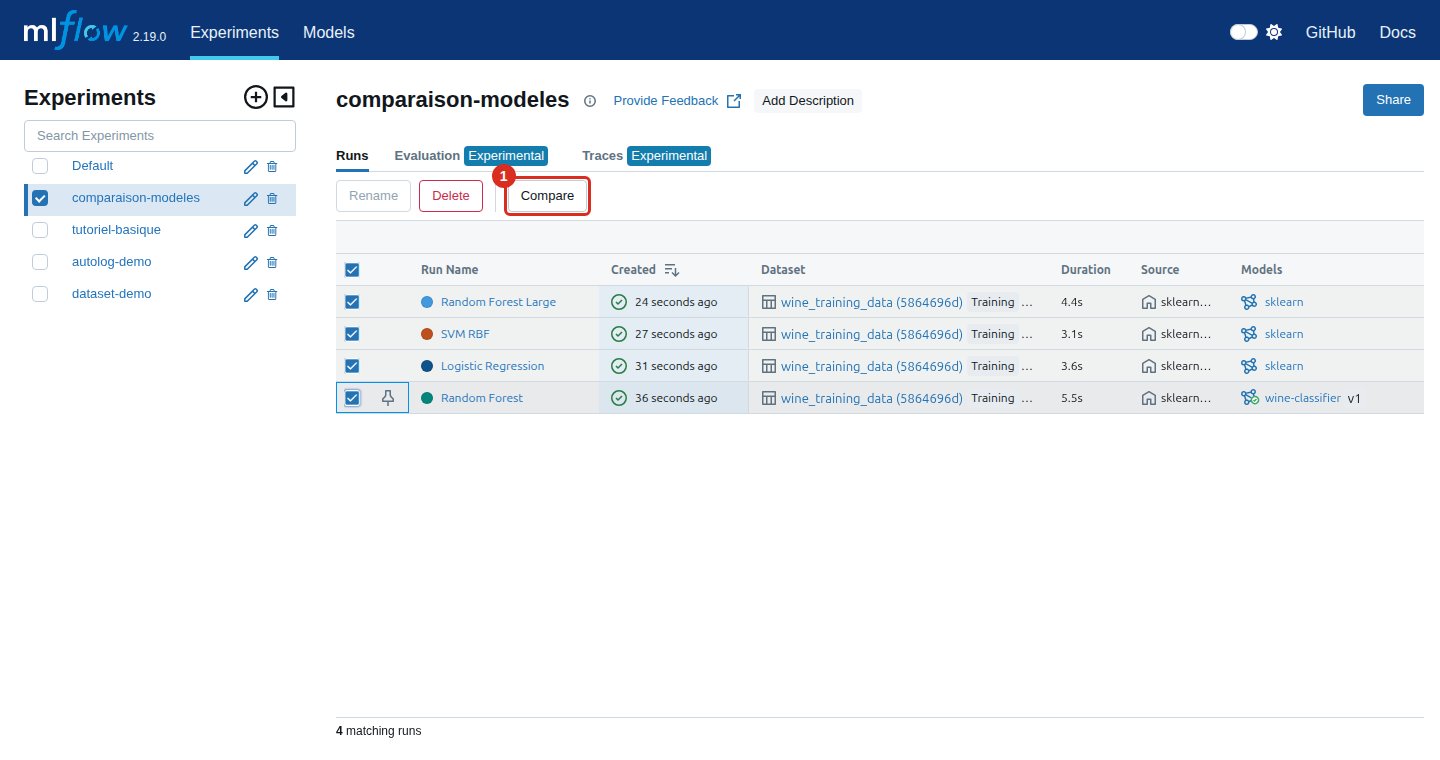
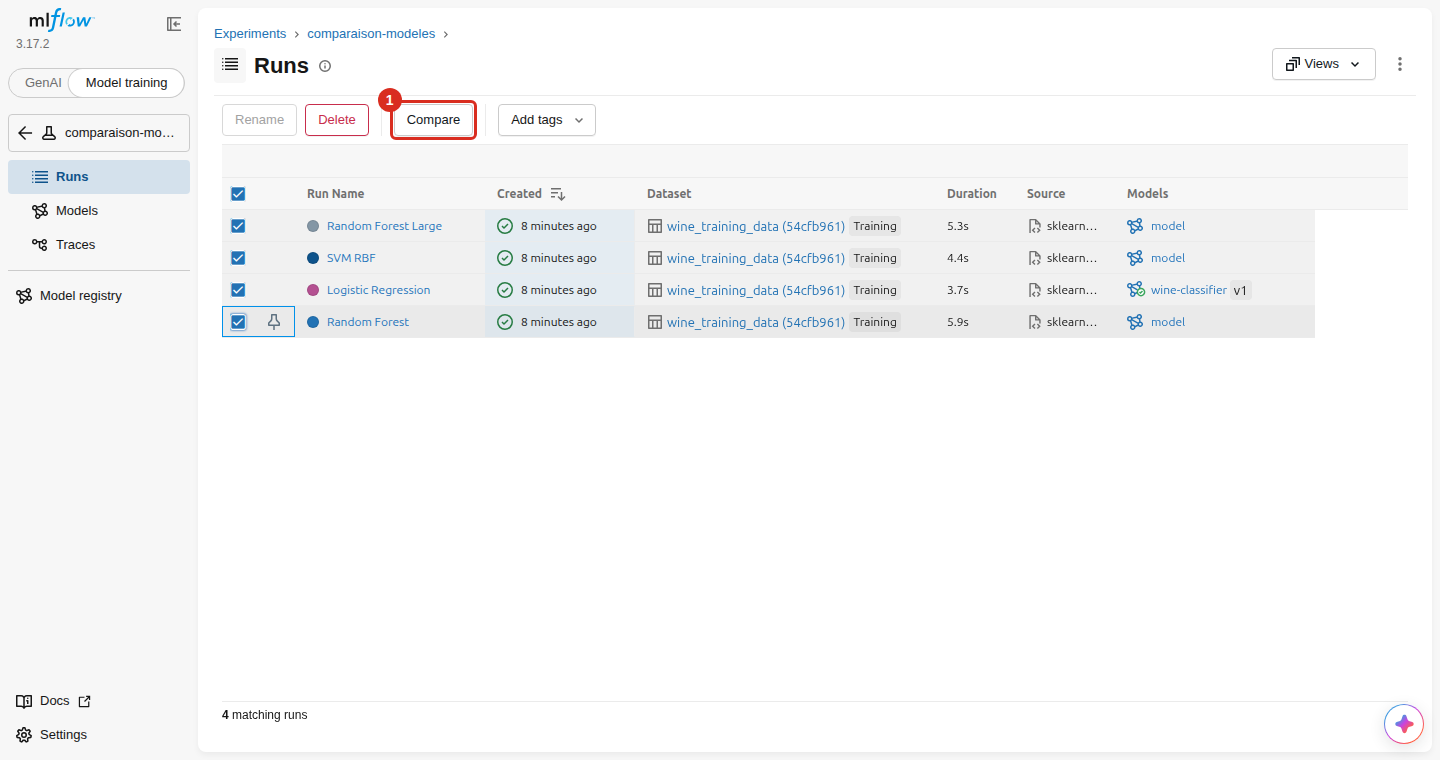
feat(examples): tracing et evaluation GenAI avec un modele local, captures MLflow 3
- genai_example.py : trace, scorer Python et juges LLM sur Ollama, sans cle payante
- filelock corrige dans le lock, LiteLLM redescend a 1.103.10 pour cela
- telemetrie d'usage de MLflow desactivee
- 23 captures refaites sur MLflow 3.17.2 et SeaweedFS 4.51

diff --git a/scripts/capture_screenshots.py b/scripts/capture_screenshots.py
@@ -33,10 +33,20 @@ FILER = "http://127.0.0.1:8888"
 MASTER = "http://127.0.0.1:9333"
 IMAGES = Path(__file__).resolve().parent.parent / "documentation" / "images"
 EXEMPLES = {
+    "comparaison-modeles": "sklearn_example.py",
     "tutoriel-basique": "basic_example.py",
     "autolog-demo": "autolog_example.py",
     "dataset-demo": "dataset_example.py",
+    "evaluation-modeles": "evaluation_example.py",
 }
+
+# Interface en mode "Model training", sans le panneau de l'assistant qui s'ouvre
+# à la première visite ; genai_example.py a besoin d'Ollama et se lance à part
+PREFERENCES = """() => {
+    localStorage.setItem('mlflow.workflowType_v1', '"machine_learning"');
+    localStorage.setItem('mlflow.assistant.fab.autoOpenedOnFirstLoad_v1', 'true');
+    localStorage.setItem('mlflow.assistant.panelOpen_v1', 'false');
+}"""
 
 # Dessine un cadre et une pastille numérotée autour de chaque élément ciblé
 ANNOTER = """([x, y, w, h, n]) => {
@@ -69,15 +79,7 @@ def runs(experiment_id):
 
 
 def preparer_donnees():
-    """Attend le premier entraînement du runner et lance les exemples manquants."""
-    for _ in range(60):
-        try:
-            api("registered-models/alias?name=wine-classifier&alias=champion")
-            break
-        except OSError:
-            time.sleep(5)
-    else:
-        raise SystemExit("Pas de modèle @champion : la stack tourne-t-elle ?")
+    """Lance les exemples dont l'expérience n'existe pas encore."""
     for nom, script in EXEMPLES.items():
         if nom not in experiences():
             subprocess.run(["docker", "compose", "exec", "-T", "runner", "python", script], check=True)
@@ -100,7 +102,7 @@ def capturer(page, url, nom, cibles=(), attente=3500, avant=None):
 
 
 def fermer_promotion(page):
-    """Ferme la fenêtre promotionnelle du registre, affichée à la première visite."""
+    """Ferme les fenêtres de découverte affichées à la première visite d'une page."""
     page.keyboard.press("Escape")
     page.wait_for_timeout(500)
 
@@ -110,18 +112,24 @@ def main():
     IMAGES.mkdir(parents=True, exist_ok=True)
     ids = experiences()
     comparaison = ids["comparaison-modeles"]
+    evaluation = ids["evaluation-modeles"]
     champion = api("registered-models/alias?name=wine-classifier&alias=champion")["model_version"]
+    modele_champion = champion["source"].split("/")[-1]
     tous = [r["info"]["run_id"] for r in runs(comparaison)]
     run_basique = runs(ids["tutoriel-basique"])[0]["info"]["run_id"]
     run_autolog = runs(ids["autolog-demo"])[0]["info"]["run_id"]
     run_dataset = runs(ids["dataset-demo"])[0]["info"]["run_id"]
+    run_candidat = next(r["info"]["run_id"] for r in runs(evaluation) if r["info"]["run_name"] == "candidat")
     url_run = f"{MLFLOW}/#/experiments/{comparaison}/runs/{champion['run_id']}"
+    url_stockage = f"{FILER}/buckets/mlflow-artifacts/{comparaison}"
 
     with sync_playwright() as p:
         navigateur = p.chromium.launch()
         page = navigateur.new_page(viewport={"width": 1440, "height": 760})
+        page.goto(MLFLOW)
+        page.evaluate(PREFERENCES)
 
-        capturer(page, f"{MLFLOW}/#/experiments/{comparaison}", "01-table-des-runs", [
+        capturer(page, f"{MLFLOW}/#/experiments/{comparaison}/runs", "01-table-des-runs", [
             lambda pg: pg.get_by_role("link", name="comparaison-modeles").first,
             lambda pg: pg.get_by_role("link", name="Random Forest Large"),
             lambda pg: pg.get_by_text("wine_training_data").first,
@@ -135,26 +143,26 @@ def main():
                     lignes.nth(i).check(force=True)
             pg.wait_for_timeout(500)
 
-        capturer(page, f"{MLFLOW}/#/experiments/{comparaison}", "02-selection-pour-comparer", [
+        capturer(page, f"{MLFLOW}/#/experiments/{comparaison}/runs", "02-selection-pour-comparer", [
             lambda pg: pg.get_by_role("button", name="Compare"),
         ], avant=selectionner)
 
-        page.set_viewport_size({"width": 1440, "height": 1050})
+        page.set_viewport_size({"width": 1440, "height": 1700})
         capturer(page, url_run, "03-run-overview", [
-            lambda pg: pg.get_by_text("Datasets used"),
-            lambda pg: pg.get_by_text("Tags", exact=True),
-            lambda pg: pg.get_by_text("Logged models"),
-            lambda pg: pg.get_by_text("Registered models"),
-            lambda pg: pg.get_by_role("heading", name="Parameters"),
+            lambda pg: pg.get_by_role("heading", name="Datasets"),
+            lambda pg: pg.get_by_role("heading", name="Tags"),
+            lambda pg: pg.get_by_role("heading", name="Registered models"),
             lambda pg: pg.get_by_role("heading", name="Metrics"),
+            lambda pg: pg.get_by_role("heading", name="Parameters"),
+            lambda pg: pg.get_by_role("heading", name="Logged models"),
         ])
         capturer(page, f"{MLFLOW}/#/experiments/{ids['autolog-demo']}/runs/{run_autolog}", "04-run-autolog", [
-            lambda pg: pg.get_by_role("heading", name="Parameters"),
             lambda pg: pg.get_by_role("heading", name="Metrics"),
+            lambda pg: pg.get_by_role("heading", name="Parameters"),
         ])
         page.set_viewport_size({"width": 1440, "height": 760})
         capturer(page, f"{MLFLOW}/#/experiments/{ids['dataset-demo']}/runs/{run_dataset}", "05-run-datasets", [
-            lambda pg: pg.get_by_text("Datasets used"),
+            lambda pg: pg.get_by_role("heading", name="Datasets"),
         ])
         capturer(page, f"{MLFLOW}/#/experiments/{ids['tutoriel-basique']}/runs/{run_basique}/model-metrics",
                  "06-courbe-de-metrique", [lambda pg: pg.get_by_text("loss", exact=True).first])
@@ -163,38 +171,108 @@ def main():
             lambda pg: pg.get_by_text("s3://mlflow-artifacts"),
         ])
 
+        def axes_parlants(pg):
+            """Remplace les axes par défaut par le modèle et ses scores."""
+            pg.get_by_role("button", name="Clear All").click()
+            for selecteur, valeurs in [(0, ["model_type"]), (1, ["cv_mean", "test_accuracy"])]:
+                champ = pg.locator(".ant-select-selection-search-input, .du-bois-light-select-selection-search-input").nth(selecteur)
+                for valeur in valeurs:
+                    champ.click(force=True)
+                    champ.fill(valeur)
+                    pg.wait_for_timeout(300)
+                    champ.press("Enter")
+                    pg.wait_for_timeout(500)
+                pg.keyboard.press("Escape")
+            pg.mouse.click(1000, 650)
+            pg.wait_for_timeout(1500)
+
         ids_json = urllib.parse.quote(json.dumps(tous))
         page.set_viewport_size({"width": 1440, "height": 1000})
         capturer(page, f'{MLFLOW}/#/compare-runs?runs={ids_json}&experiments=["{comparaison}"]', "08-comparaison", [
             lambda pg: pg.get_by_text("Parallel Coordinates Plot"),
-        ], attente=5000)
+        ], attente=5000, avant=axes_parlants)
         page.set_viewport_size({"width": 1440, "height": 760})
         capturer(page, f"{MLFLOW}/#/models", "09-registre-des-modeles", [
             lambda pg: pg.get_by_role("link", name="wine-classifier"),
             lambda pg: pg.get_by_text("champion").first,
         ], avant=fermer_promotion)
         capturer(page, f"{MLFLOW}/#/models/wine-classifier/versions/{champion['version']}", "10-version-du-modele", [
-            lambda pg: pg.get_by_role("link", name="Random Forest"),
+            lambda pg: pg.get_by_text("Source Run"),
+            lambda pg: pg.get_by_text("Source Model"),
             lambda pg: pg.get_by_text("champion").first,
         ], avant=fermer_promotion)
-        capturer(page, f"{FILER}/buckets/mlflow-artifacts/{comparaison}/{champion['run_id']}/artifacts/",
+        capturer(page, f"{url_stockage}/{champion['run_id']}/artifacts/",
                  "11-stockage-seaweedfs", [lambda pg: pg.get_by_role("link", name="confusion_matrix.png").first])
         capturer(page, f"{FILER}/buckets/mlflow-artifacts/", "12-seaweedfs-bucket", [
             lambda pg: pg.get_by_role("link", name="mlflow-artifacts"),
             lambda pg: pg.get_by_role("link", name=comparaison, exact=True).last,
         ], attente=1500)
-        capturer(page, f"{FILER}/buckets/mlflow-artifacts/{comparaison}/", "13-seaweedfs-runs", [
+        capturer(page, f"{url_stockage}/", "13-seaweedfs-runs", [
+            lambda pg: pg.get_by_role("link", name="models", exact=True),
             lambda pg: pg.get_by_role("link", name=champion["run_id"]),
         ], attente=1500)
-        capturer(page, f"{FILER}/buckets/mlflow-artifacts/{comparaison}/{champion['run_id']}/artifacts/model/",
-                 "14-seaweedfs-modele", [
+        capturer(page, f"{url_stockage}/models/{modele_champion}/artifacts/", "14-seaweedfs-modele", [
             lambda pg: pg.get_by_role("link", name="MLmodel"),
-            lambda pg: pg.get_by_role("link", name="model.pkl"),
+            lambda pg: pg.get_by_role("link", name="model.skops"),
         ], attente=1500)
         capturer(page, MASTER, "15-seaweedfs-cluster", [
             lambda pg: pg.get_by_text("Cluster status"),
             lambda pg: pg.get_by_role("heading", name="Topology"),
         ], attente=1500)
+
+        page.set_viewport_size({"width": 2100, "height": 500})
+        capturer(page, f"{MLFLOW}/#/experiments/{evaluation}/models", "16-logged-models", [
+            lambda pg: pg.get_by_role("link", name="candidat").first,
+            lambda pg: pg.get_by_text("accuracy_score").first,
+        ])
+        modele_candidat = page.get_by_role("link", name="candidat").first.get_attribute("href").rstrip("/").split("/")[-1]
+        page.set_viewport_size({"width": 1440, "height": 1100})
+        capturer(page, f"{MLFLOW}/#/experiments/{evaluation}/models/{modele_candidat}", "17-logged-model", [
+            lambda pg: pg.get_by_role("heading", name="Metrics"),
+            lambda pg: pg.get_by_text("wine_test").first,
+        ])
+        page.set_viewport_size({"width": 1440, "height": 760})
+        capturer(page, f"{MLFLOW}/#/experiments/{evaluation}/runs/{run_candidat}/artifacts/confusion_matrix.png",
+                 "18-graphiques-evaluation", [lambda pg: pg.get_by_text("confusion_matrix.png").first])
+        capturer(page, f"{MLFLOW}/#/experiments/{evaluation}/runs/{run_candidat}/system-metrics",
+                 "19-metriques-systeme", [lambda pg: pg.get_by_text("cpu_utilization_percentage").first])
+
+        if "genai-assistant" in ids:
+            genai = ids["genai-assistant"]
+            page.get_by_text("GenAI", exact=True).click()
+
+            def fermer_decouverte(pg):
+                pg.get_by_role("button", name="Got it").click()
+                pg.wait_for_timeout(500)
+
+            capturer(page, f"{MLFLOW}/#/experiments/{genai}/traces", "20-traces", [
+                lambda pg: pg.get_by_text("Combien", exact=False).first,
+                lambda pg: pg.get_by_text("Output", exact=True).first,
+            ], avant=fermer_decouverte)
+
+            def ouvrir_trace(pg):
+                pg.get_by_text("Combien", exact=False).first.click()
+                pg.wait_for_timeout(2500)
+
+            capturer(page, f"{MLFLOW}/#/experiments/{genai}/traces", "21-detail-trace", [
+                lambda pg: pg.get_by_text("chercher_fiche").first,
+                lambda pg: pg.get_by_text("Completions").first,
+            ], avant=ouvrir_trace)
+            capturer(page, f"{MLFLOW}/#/experiments/{genai}/evaluation-runs", "22-evaluation-genai", [
+                lambda pg: pg.get_by_text("contient_mot_cle", exact=False).first,
+            ])
+
+            def ouvrir_evaluation(pg):
+                pg.locator("a", has_text="-").filter(has_not_text="genai").last.click()
+                pg.wait_for_timeout(3000)
+
+            page.set_viewport_size({"width": 2300, "height": 620})
+            capturer(page, f"{MLFLOW}/#/experiments/{genai}/evaluation-runs", "23-detail-evaluation", [
+                lambda pg: pg.get_by_text("Response", exact=True).first,
+                lambda pg: pg.get_by_text("correctness").last,
+            ], avant=ouvrir_evaluation)
+        else:
+            print("genai-assistant absente : captures 20 à 23 ignorées (lancer genai_example.py)")
         navigateur.close()
 
 

diff --git a/examples/genai_example.py b/examples/genai_example.py
@@ -1,0 +1,130 @@
+"""
+genai_example.py - Tracing et évaluation d'un assistant LLM
+===========================================================
+
+Un petit assistant répond à des questions sur le dataset Wine à partir de
+fiches, avec un modèle local servi par Ollama (aucune clé payante) :
+- mlflow.openai.autolog() et @mlflow.trace : chaque réponse devient une trace
+- mlflow.genai.evaluate() : note les réponses sur un jeu de questions
+- @scorer : un critère écrit en Python, sans LLM
+- Correctness et Guidelines : des critères notés par un LLM, le "juge"
+
+Prérequis:
+---------
+Un serveur Ollama joignable depuis le conteneur runner, avec le modèle
+OLLAMA_MODEL installé (voir la section GenAI du tutoriel).
+
+Exécution:
+---------
+docker compose exec -e OLLAMA_BASE_URL=http://ollama-central:11434/v1 runner python genai_example.py
+
+Interface MLflow:
+----------------
+Expérience "genai-assistant" sur http://localhost:5000, onglets "Traces" et "Evaluation runs"
+"""
+
+import os
+
+import mlflow
+from mlflow.entities import Feedback, SpanType
+from mlflow.genai.scorers import Correctness, Guidelines, scorer
+from openai import OpenAI
+
+from sklearn_example import configurer_mlflow
+
+MODELE = os.getenv("OLLAMA_MODEL", "gemma4:e4b")
+
+# Le juge passe par LiteLLM, qui lit OPENAI_API_BASE ; le client OpenAI lit
+# OPENAI_BASE_URL. Ollama expose une API compatible et ignore la clé.
+URL_OLLAMA = os.getenv("OLLAMA_BASE_URL", "http://localhost:11434/v1")
+os.environ["OPENAI_BASE_URL"] = URL_OLLAMA
+os.environ["OPENAI_API_BASE"] = URL_OLLAMA
+os.environ["OPENAI_API_KEY"] = "ollama"
+JUGE = f"openai:/{MODELE}"
+
+FICHES = {
+    "classes": "Le dataset Wine contient 3 classes de vins : class_0, class_1 et class_2.",
+    "caractéristiques": "Chaque vin est décrit par 13 caractéristiques chimiques, dont l'alcool et le magnésium.",
+    "échantillons": "Le dataset Wine contient 178 échantillons.",
+}
+
+QUESTIONS = [
+    {
+        "inputs": {"question": "Combien de classes contient le dataset Wine ?"},
+        "expectations": {"expected_facts": ["Le dataset contient 3 classes"], "mot_cle": "3"},
+    },
+    {
+        "inputs": {"question": "Combien de caractéristiques décrivent un vin ?"},
+        "expectations": {"expected_facts": ["Un vin est décrit par 13 caractéristiques"], "mot_cle": "13"},
+    },
+    {
+        "inputs": {"question": "Combien d'échantillons contient le dataset Wine ?"},
+        "expectations": {"expected_facts": ["Le dataset contient 178 échantillons"], "mot_cle": "178"},
+    },
+]
+
+
+@mlflow.trace(span_type=SpanType.RETRIEVER)
+def chercher_fiche(question):
+    """Renvoie la fiche dont le titre apparaît dans la question."""
+    return next((fiche for titre, fiche in FICHES.items() if titre in question.lower()), "")
+
+
+@mlflow.trace
+def repondre(question):
+    """Répond à une question : la fiche d'abord, le LLM ensuite (deux spans de la trace)."""
+    fiche = chercher_fiche(question)
+    reponse = OpenAI().chat.completions.create(
+        model=MODELE,
+        messages=[
+            {"role": "system", "content": f"Réponds en français, en une phrase, d'après cette fiche : {fiche}"},
+            {"role": "user", "content": question},
+        ],
+    )
+    return reponse.choices[0].message.content
+
+
+@scorer
+def contient_mot_cle(outputs, expectations):
+    """Critère sans LLM : la réponse contient-elle le mot-clé attendu ?"""
+    return expectations["mot_cle"] in outputs
+
+
+def main():
+    configurer_mlflow()
+    mlflow.set_experiment("genai-assistant")
+
+    # Ajoute à la trace un span par appel au LLM : messages, réponse, jetons
+    mlflow.openai.autolog()
+
+    print("\n--- Une question, une trace ---")
+    question = QUESTIONS[0]["inputs"]["question"]
+    print(f"{question}\n-> {repondre(question)}")
+    print(f"Trace : {mlflow.get_last_active_trace_id()}")
+
+    print("\n--- Évaluation sur le jeu de questions ---")
+    resultat = mlflow.genai.evaluate(
+        data=QUESTIONS,
+        predict_fn=repondre,
+        scorers=[
+            contient_mot_cle,
+            Correctness(model=JUGE),
+            Guidelines(
+                name="en_francais",
+                guidelines="La réponse doit être rédigée en français.",
+                model=JUGE,
+            ),
+        ],
+    )
+    print(f"Run d'évaluation : {resultat.run_id}")
+    for nom, valeur in sorted(resultat.metrics.items()):
+        print(f"{nom} : {valeur:.2f}")
+    
+    print("\n--- Détail par question ---")
+    for trace in mlflow.search_traces(run_id=resultat.run_id, return_type="list"):
+        notes = {a.name: a.value for a in trace.info.assessments if isinstance(a, Feedback)}
+        print(f"{trace.data.request}\n-> {trace.data.response}\n   {notes}")
+
+
+if __name__ == "__main__":
+    main()

diff --git a/examples/evaluation_example.py b/examples/evaluation_example.py
@@ -110,7 +110,8 @@ def main():
         reference,
     )
 
-    # Le statut suit le Logged Model : il apparaît dans l'onglet Models
+    # Le statut suit le Logged Model. L'interface 3.17 n'affiche pas ces tags : il
+    # se relit en Python (tags.validation peut aussi servir de filtre de recherche)
     statut = "approuve" if approuve else "refuse"
     mlflow.MlflowClient().set_logged_model_tags(info_candidat.model_id, {"validation": statut})
 
